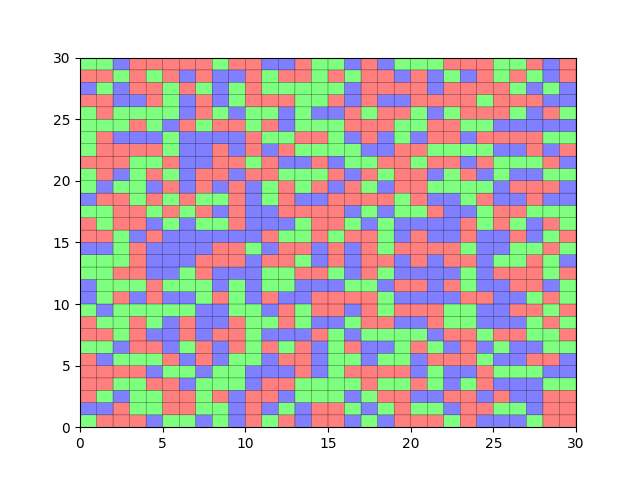
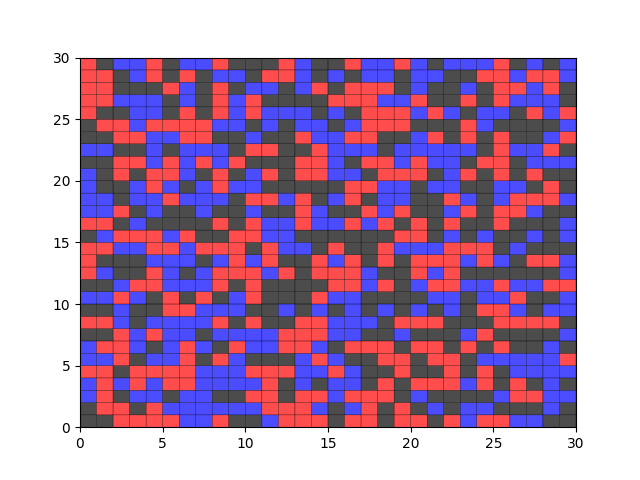
Update color

diff --git a/main.py b/main.py
@@ -7,7 +7,7 @@ from matplotlib import pyplot, colors
 #           `-    \`_`"'- meow
 
 class c_Grid:
-    def __init__(self, grid:numpy.array, colorset:list=['#FF0000','#00FF00','#0000FF']):
+    def __init__(self, grid:numpy.array, colorset:list=['#000000','#FF0000','#0000FF']):
         self._Index = 0
         self._InitialState = grid
         self._CurrentState = self._InitialState
@@ -17,7 +17,7 @@ class c_Grid:
         print(self._CurrentState)
         if show_plot == True:
             fig,ax1 = pyplot.subplots(nrows=1,ncols=1)
-            ax1.pcolor(self._CurrentState, cmap=self._ColorSet, edgecolor='#000000', alpha=0.5)
+            ax1.pcolor(self._CurrentState, cmap=self._ColorSet, edgecolor='#000000', alpha=0.7)
             fig.savefig(f"./out/graph_{self._Index}")
 
     def update(self):
